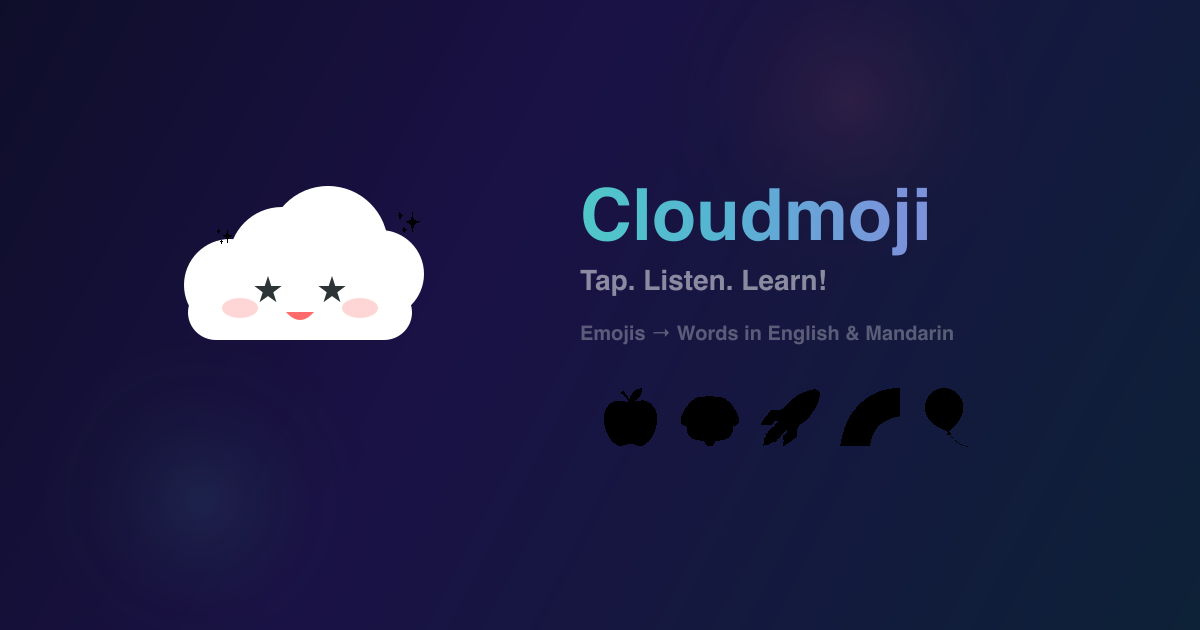
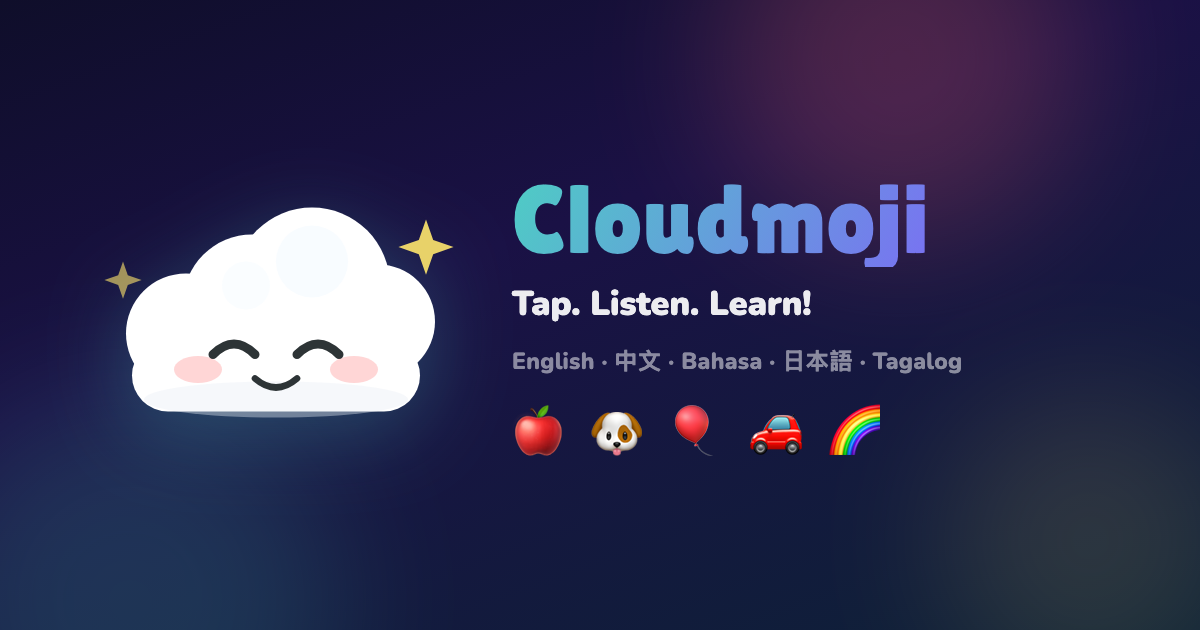
feat(web): rebuild the Open Graph share card
The og-image.png that social platforms show for cloudmoji.app had its
emoji rendered as black silhouettes and a stale "English & Mandarin"
subtitle. Rebuild it: full-colour emoji, all five languages, and the
happy cloud from the iOS app icon (arc eyes, gentle smile, gold
sparkles).

- tools/og-image/: a committed generator (card.html + a Playwright
  screenshot script, `npm run og:image`) so the card renders colour
  emoji correctly and can't silently rot again.
- index.html: bump og:image/twitter:image to ?v=2 so the platforms
  re-fetch rather than serve the cached black-emoji card.

Changed region(s): [[0.4317, 0.0, 0.925, 0.7238], [0.0, 0.2714, 0.37, 1.0], [0.8325, 0.7238, 0.9867, 0.9651]]

diff --git a/tools/og-image/card.html b/tools/og-image/card.html
@@ -1,0 +1,102 @@
+<!doctype html>
+<html>
+<head>
+<meta charset="utf-8" />
+<link rel="preconnect" href="https://fonts.googleapis.com" />
+<link rel="preconnect" href="https://fonts.gstatic.com" crossorigin />
+<link href="https://fonts.googleapis.com/css2?family=Lilita+One&family=Nunito:wght@700;800;900&display=swap" rel="stylesheet" />
+<style>
+  * { margin: 0; padding: 0; box-sizing: border-box; }
+  /* Exactly the Open Graph canvas. */
+  html, body { width: 1200px; height: 630px; overflow: hidden; }
+  body {
+    /* The app's own background gradient, from docs/design/DESIGN_SYSTEM.md. */
+    background: linear-gradient(160deg, #0F0E2A 0%, #1A1145 40%, #0D2137 100%);
+    font-family: 'Nunito', sans-serif;
+    position: relative;
+    display: flex;
+    align-items: center;
+    gap: 56px;
+    padding: 0 96px;
+  }
+  /* The three brand glow orbs — coral, teal, gold — soft and off to the sides. */
+  .orb { position: absolute; border-radius: 50%; filter: blur(70px); opacity: 0.22; }
+  .orb.coral { width: 360px; height: 360px; background: #FF6B6B; top: -120px; right: 120px; }
+  .orb.teal  { width: 420px; height: 420px; background: #4ECDC4; bottom: -180px; left: -80px; opacity: 0.16; }
+  .orb.gold  { width: 300px; height: 300px; background: #FFE66D; bottom: -60px; right: -40px; opacity: 0.12; }
+
+  .cloud { flex: 0 0 auto; width: 360px; filter: drop-shadow(0 18px 40px rgba(78,205,196,0.28)); }
+  .cloud svg { width: 360px; height: 281px; overflow: visible; }
+
+  .text { position: relative; z-index: 2; }
+  .wordmark {
+    font-family: 'Lilita One', sans-serif;
+    font-size: 96px;
+    line-height: 1;
+    background: linear-gradient(120deg, #4ECDC4 0%, #7C6BF5 100%);
+    -webkit-background-clip: text;
+    background-clip: text;
+    -webkit-text-fill-color: transparent;
+    letter-spacing: 0.5px;
+  }
+  .tagline {
+    font-weight: 900;
+    font-size: 34px;
+    color: rgba(255,255,255,0.92);
+    margin-top: 14px;
+  }
+  .langs {
+    font-weight: 800;
+    font-size: 23px;
+    color: rgba(255,255,255,0.5);
+    margin-top: 18px;
+    letter-spacing: 0.3px;
+  }
+  .emojis {
+    margin-top: 30px;
+    font-size: 52px;
+    line-height: 1;
+    letter-spacing: 12px;
+  }
+</style>
+</head>
+<body>
+  <div class="orb coral"></div>
+  <div class="orb teal"></div>
+  <div class="orb gold"></div>
+
+  <div class="cloud">
+    <!-- The Cloudmoji mascot, excited mood — transcribed from src/components/CloudMascot.tsx -->
+    <svg viewBox="0 0 120 78" xmlns="http://www.w3.org/2000/svg">
+      <circle cx="30" cy="46" r="20" fill="white" />
+      <circle cx="52" cy="36" r="23" fill="white" />
+      <circle cx="72" cy="30" r="26" fill="white" />
+      <circle cx="94" cy="42" r="19" fill="white" />
+      <circle cx="42" cy="44" r="16" fill="white" />
+      <rect x="12" y="48" width="96" height="24" rx="12" fill="white" />
+      <circle cx="72" cy="22" r="12" fill="#F8FCFF" />
+      <circle cx="50" cy="30" r="8" fill="#F8FCFF" opacity="0.7" />
+      <ellipse cx="60" cy="68" rx="44" ry="6" fill="#E8EEF4" opacity="0.4" />
+      <ellipse cx="34" cy="58" rx="8" ry="4.5" fill="#FFB5B5" opacity="0.55" />
+      <ellipse cx="86" cy="58" rx="8" ry="4.5" fill="#FFB5B5" opacity="0.55" />
+      <!-- Happy face, exactly the iOS app icon: squinting arc eyes and a gentle
+           smile, drawn as paths so they never shift with font availability. -->
+      <path d="M39 53 Q46 46 53 53" fill="none" stroke="#2D3436" stroke-width="3" stroke-linecap="round" />
+      <path d="M67 53 Q74 46 81 53" fill="none" stroke="#2D3436" stroke-width="3" stroke-linecap="round" />
+      <path d="M53 61 Q60 67 67 61" fill="none" stroke="#2D3436" stroke-width="2.2" stroke-linecap="round" />
+      <!-- Gold sparkles, the icon's celebration accent, as star paths not emoji. -->
+      <g fill="#FFE66D">
+        <path d="M110 8 l2.4 6.8 6.8 2.4 -6.8 2.4 -2.4 6.8 -2.4 -6.8 -6.8 -2.4 6.8 -2.4 z" opacity="0.9" />
+        <path d="M9 22 l1.6 4.6 4.6 1.6 -4.6 1.6 -1.6 4.6 -1.6 -4.6 -4.6 -1.6 4.6 -1.6 z" opacity="0.6" />
+      </g>
+    </svg>
+  </div>
+
+  <div class="text">
+    <div class="wordmark">Cloudmoji</div>
+    <div class="tagline">Tap. Listen. Learn!</div>
+    <div class="langs">English &middot; 中文 &middot; Bahasa &middot; 日本語 &middot; Tagalog</div>
+    <div class="emojis">🍎&#8202;🐶&#8202;🎈&#8202;🚗&#8202;🌈</div>
+  </div>
+</body>
+</html>

diff --git a/index.html b/index.html
@@ -15,7 +15,7 @@
     <!-- Open Graph (WhatsApp, LinkedIn, Facebook) -->
     <meta property="og:title" content="Cloudmoji — Tap emojis, learn words" />
     <meta property="og:description" content="Your toddler taps emojis and hears words in English, Mandarin, Malay, Japanese and Tagalog. Free, no download needed." />
-    <meta property="og:image" content="https://www.cloudmoji.app/og-image.png" />
+    <meta property="og:image" content="https://www.cloudmoji.app/og-image.png?v=2" />
     <meta property="og:url" content="https://www.cloudmoji.app" />
     <meta property="og:type" content="website" />
 
@@ -23,7 +23,7 @@
     <meta name="twitter:card" content="summary_large_image" />
     <meta name="twitter:title" content="Cloudmoji — Tap emojis, learn words" />
     <meta name="twitter:description" content="Built because my 2-year-old was already doing this on a locked iPhone." />
-    <meta name="twitter:image" content="https://www.cloudmoji.app/og-image.png" />
+    <meta name="twitter:image" content="https://www.cloudmoji.app/og-image.png?v=2" />
 
     <!-- Fonts -->
     <link rel="preconnect" href="https://fonts.googleapis.com" />
